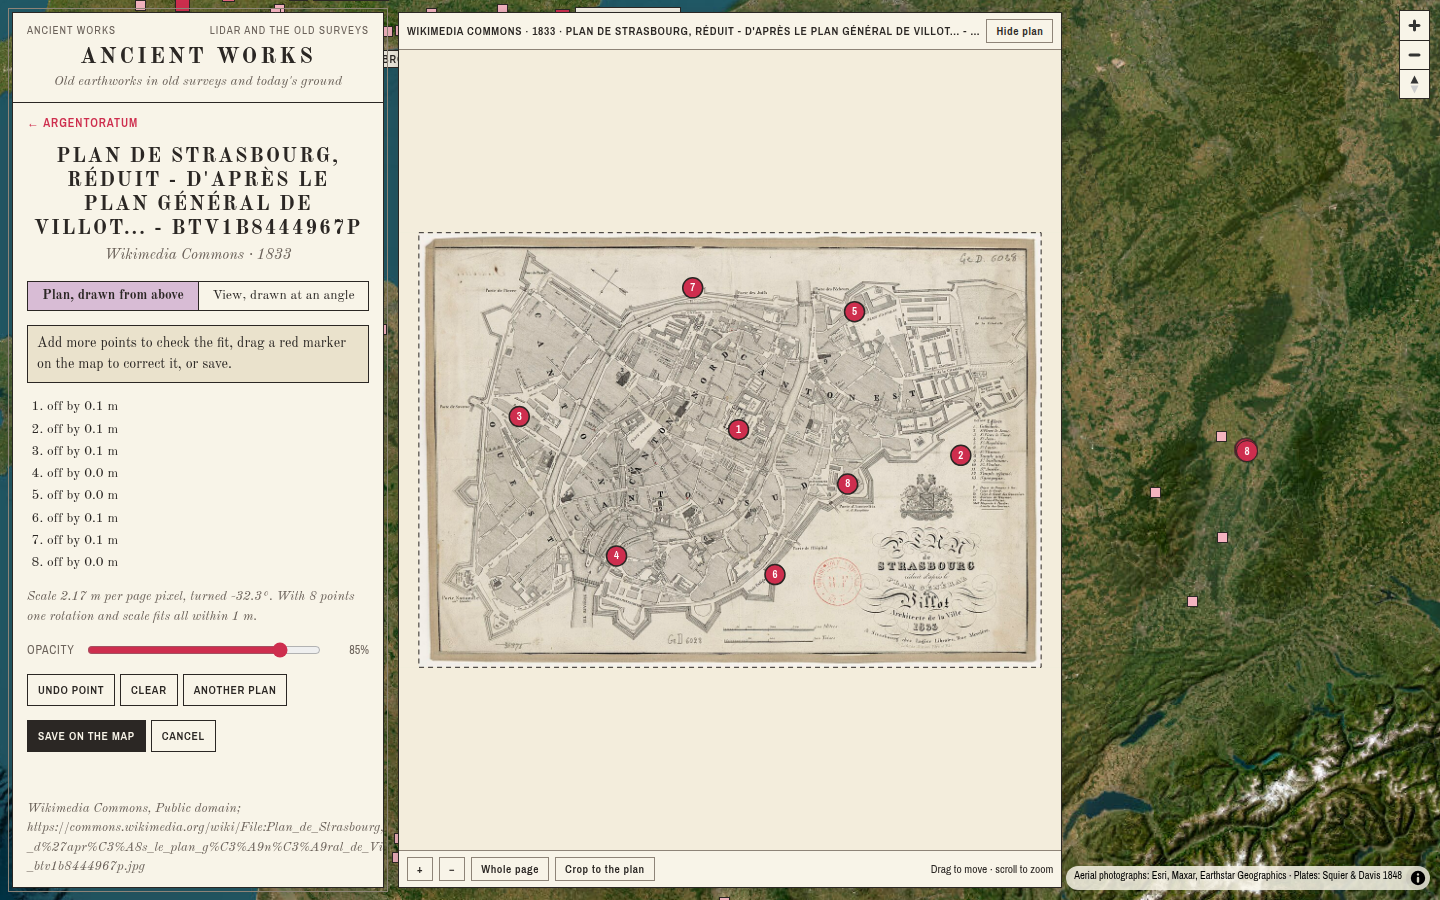
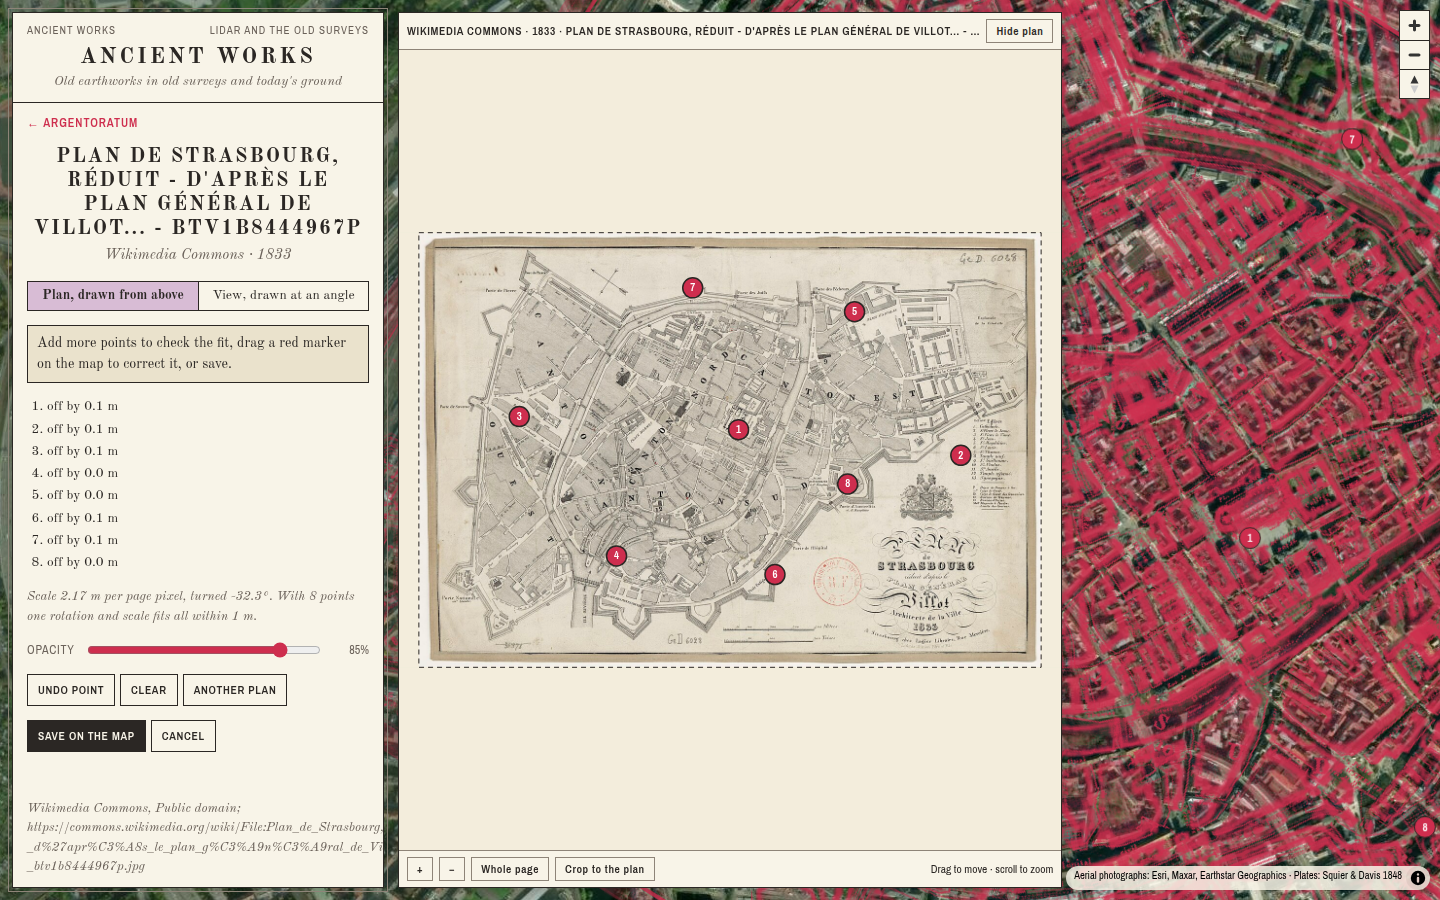
306b: one-doc re-check passed (S.ready + zoom races fixed, [eval] verified both grounds); full 42-shot audit run launched in the background

Changed region(s): [[0.0, 0.0, 1.0, 1.0]]

diff --git a/tasks/306b-agent-fits-in-review.md b/tasks/306b-agent-fits-in-review.md
@@ -57,19 +57,52 @@ the verdict must say which placement was looked at.
 - zwolle-q793.c_f9cddae6b944a648 - Zwolle, town plan by Jacob van Deventer (Netherlands)
 
 ## Hand-over
-(2026-10-12, iteration 139, agent c - FIRST session on 306b. Built the headless audit driver and
-validated it on one doc; full 42-shot run NOT started yet. Driver is uncommitted - the harness saved it.)
+(2026-10-12, iteration 140, agent c - second session. One-doc re-check PASSED with both fixes;
+full 42-shot run LAUNCHED in the background, in flight at session end.)
 
-**State.** `tools/audit_306b.mjs` (on my Touches line) is built and half-validated: for each of the 21
-docs it opens the site the review-tab way (select -> setGround -> startFit -> openPlan(
-rvResolveRow(site, docFields)) -> push the DOC's own 8 pairs + addPairMarker + refit) and takes a
-1440x900 shot over the aerial, plus over the LiDAR relief (all 10 sites have relief.jpg -> 42 shots
-total). One `server/serve.py --port 0` for the whole run, GET only; idempotent (skips existing pngs);
-accepts doc ids as args (`node tools/audit_306b.mjs <docId> [docId ...]`). The argentoratum c_191c
-couple was shot twice and is in docs/site_flow/agent_fits/ (uncommitted).
+**State.** `tools/audit_306b.mjs` (committed ceb6219, on my Touches line) is now FULLY VALIDATED on
+argentoratum c_191c6221a81caad0: both pngs re-shot with the fixes, [eval] confirmed on both grounds
+- imagery: `ground imagery, relLayer none, zoom 14.97`; relief: `relLayer visible, zoom 14.99`;
+`img:true, layer:true, n:8, fithint "Drag to move · scroll to zoom"`, fit resid 0.0-0.1 m, mpx 2.17,
+rot -32.3. Visual check of both shots: site-scale town (not the country-zoom 6.38 of the pre-fix run),
+1833 Villot plate fitted with the 8 numbered anchor dots, aerial shows dark satellite under the site's
+etatmajor red ink (85 %), relief shows grey hillshade + the Ill river + the same ink + the plate.
+The full run is in the background: `nohup node tools/audit_306b.mjs > /tmp/audit_306b.log 2>&1 &`
+(launched this session; server port 44225 at launch; 21 docs, 42 shots, 40 to write; ~22 s/shot est
+15-20 min; it SKIPs the 2 existing argentoratum pngs). /tmp persists across iterations (306a's
+127 KB /tmp/audit_306a.log from iteration 135 is still there).
 
-**Two page-behavior traps found and worked around IN THE DRIVER (the page files are agent a's 307
-territory - do not edit web/*.js here):**
+**NEXT STEPS, in order.**
+1. `tail -40 /tmp/audit_306b.log`: look for `[audit] FAILURES: ...` / `file=MISSING`. If the process is
+   still alive (ps -ef | grep audit_306b) let it finish or wait; if it died mid-run with some shots
+   missing, just re-run `node tools/audit_306b.mjs` (idempotent - it only writes what is missing).
+   Re-shoot a doc whose png looks wrong by id after `rm`-ing its two pngs.
+2. JUDGE the 42 shots in batches of ~7 (read the pngs) and APPEND 21 lines to the END of docs/site_flow.md
+   (the "## The agent fits, looked at (task 306)" section, line ~702, is the file's last section; 306a's
+   last line is bethlehem-q2523914.c_fc4566d6947287f4, ~line 798, "REMOVED (wrong place)" - append below
+   it; the section intro already promises b-f will append). Line format follows 306a's: `<doc id> -
+   <source>, <fit kind> (<score/points>, gate/resid): what the lines sit on. STAYS.` / `... LEAVES
+   (reason).` NOTE in each line where the review item's own version differs (the audit looks at the DOC's
+   pairs; the review tab today shows the item's candidates, which hold the machine's pairs and whose `why`
+   fields say why the machine rejected: read data/review/<site>.<plan>.json per doc - median residual
+   > 45 m or fabricated anchor patterns). castle-neroche n0110_1 is the one doc whose item pairs MATCH.
+3. Wrong fits (if any): the 303 way, exactly as 306a did: `review.upsert_item('.', sid, [entry])` with
+   entry = the FULL doc record + `why` = the audit reason (sits beside/replaces the item's own candidate
+   for the same plan); delete `data/db/platefits/<doc>.json`; `plan_fit.prune('.', sid)` (no overlay for
+   these 21, but it refreshes the site); then re-export the site's review page file SITE-SCOPED:
+   `review.export('.', sid)` (fit/review.py export with site_id - the tools/site_done.py semantics box 3
+   names; NEVER another site's item file). The site stays covered (an open item counts in the union
+   check). Do NOT run tools/site_done.py on a site whose matcher is reachable (206 trap: its fit phase
+   would place a NEW unaudited fit). Right fits stay in the store; their line says STAYS.
+4. Tick the boxes, then run the suite (`.venv/bin/python -m pytest tests/ -q --ignore=tests/test_gate.py`;
+   baseline at 306a's done commit 4ca9e2c: 128 passed, 1 skipped, test_gate pre-existing red per the
+   driver's loop-start notes). If a deletion breaks a test that pins one of the 21 docs (306a broke 5
+   this way: mackenzie doc_record, provenance source-line pins), re-point it at a surviving doc - search
+   tests/ for the doc id first.
+
+**Two page-behavior traps (WORKED AROUND IN THE DRIVER, both verified working - the page files are agent a's
+307 territory, do not edit web/*.js from this task; if a 307 merge changes the page API the driver is MY
+file and may be adapted to it):**
 1. `S.ready` race: `select()` -> `ensureSite()` bails when `!S.ready` (the page's start() sets it after
    loadPlans + catalog/scans/amazon fetches + map 'load'). If it bails, the per-site `rel-<site>`
    relief.jpg layer is never added and the relief shot shows the aerial instead (the live /tiles/relief
@@ -77,42 +110,12 @@ territory - do not edit web/*.js here):**
    the IIFE: wait for `S.ready` before select, then re-arm `ensureSite(s); applyAll()` after setGround.
 2. Zoom race: `openPlan()` ends with `map.easeTo({center, padding})` - no zoom - so it KEEPS the current
    zoom. If select()'s 4.5 s flyTo is still mid-flight when it fires, the camera settles at country
-   zoom (observed 6.38 in a debug run; the aerial then fills the frame and the anchors are a dot
-   cluster). Fix in the IIFE: before startFit, poll until `map.getZoom()` is within 0.1 of the target
+   zoom (observed 6.38 pre-fix; the aerial then fills the frame and the anchors are a dot cluster).
+   Fix in the IIFE: before startFit, poll until `map.getZoom()` is within 0.1 of the target
    (`15 - Math.max(0, Math.log2(span/1800))`, span = max(s.size_m) - select()'s own formula at 1440 px);
    after refit, if zoom is off by > 0.2, re-issue the site's easeTo WITH the explicit target zoom.
-
-**NEXT STEPS, in order.**
-1. Re-run the one-doc check with the fixes in: `rm docs/site_flow/agent_fits/argentoratum-q2361353_c_191c6221a81caad0*.png` then
-   `node tools/audit_306b.mjs argentoratum-q2361353.c_191c6221a81caad0`. Look at BOTH pngs: the aerial must
-   show the town with the fitted plate + anchor dots at a site-scale zoom; the relief must show grey
-   hillshade (plus the site's own etatmajor red drawing - that is the faithful visitor view: the dep
-   layer draws above the relief) with the fitted plate. Check the [eval] line: `zoom` ~ 13.8, `relLayer`
-   'visible' on relief / 'none' on imagery, `img:true`, `layer:true`, `fithint` NOT "Could not load the page scan."
-2. Launch the full run in the background: `nohup node tools/audit_306b.mjs > /tmp/audit_306b.log 2>&1 &`
-   (~42 shots, est. 15-20 min; it reuses the existing argentoratum pngs). It survives the session.
-3. Next session: `tail /tmp/audit_306b.log` for `[audit] FAILURES` / MISSING; re-run any failed docs by id.
-4. JUDGE the 42 shots in batches of ~7 and write the 21 lines into docs/site_flow.md under the existing
-   "## The agent fits, looked at (task 306)" section (line ~702) - APPEND below 306a's 23 lines (the
-   section intro already promises this; bethlehem's 12 lines are the last of 306a's). Line format follows
-   306a's: `<doc id> - <source>, <fit kind> (<score/points>, gate/resid): what the lines sit on. STAYS.`
-   or `... LEAVES (reason).` NOTE in each line where the review item's own version of the placement
-   differs (the item's candidates hold the machine's pairs; their `why` fields already say why the machine
-   rejected: median residual > 45 m, or fabricated anchor patterns - read data/review/<site>.<plan>.json).
-   The audit looks at the DOC's pairs (the document is the artifact); the viewer of the review tab today
-   sees the item's version.
-5. Wrong fits (if any): the 303 way, exactly as 306a did (its hand-over has the recipe): `review.upsert_item('.', sid, [entry])`
-   with entry = the FULL doc record + `why` = the audit reason (it sits beside/replaces the item's own
-   candidate for the same plan); delete `data/db/platefits/<doc>.json`; `plan_fit.prune('.', sid)` (drops any
-   overlay - there is none for these 21, but it refreshes the site); then re-export the site's review page
-   file SITE-SCOPED: `review.export('.', sid)` (fit/review.py export with site_id - the tools/site_done.py
-   semantics my box 3 names; NEVER export another site's item file). The site stays covered (an open item
-   counts in the union check). Do NOT run tools/site_done.py on a site whose matcher is reachable (206
-   trap: its fit phase would place a NEW unaudited fit). Right fits stay in the store; their line says STAYS.
-6. Run the suite (`.venv/bin/python -m pytest tests/ -q --ignore=tests/test_gate.py`; baseline 128 passed,
-   1 skipped, test_gate pre-existing red). If a deletion breaks a test that pins one of the 21 docs
-   (306a broke 5 this way: mackenzie doc_record, provenance source-line pins), re-point it at a surviving
-   doc like 306a did - search tests/ for the doc id first.
+   (Observed target ~14.97-14.99 for argentoratum, not the 13.8 the earlier estimate said - that is the
+   correct site-scale zoom for that site's size_m.)
 
 **Facts.**
 - The 19 Commons docs: plan id `c_<sha1[:16]>` but the raw file is `<sha1[:16]>.jpg` (NO c_ prefix); served
@@ -128,4 +131,4 @@ territory - do not edit web/*.js here):**
 - Per-site old-drawing layer (argentoratum: etatmajor ink, 85 %) draws ABOVE the relief and BELOW fit-prev -
   in relief shots you see relief + the site's own drawing + the audited plate. That is what a visitor sees.
 - 306a's 45 shots are in docs/site_flow/agent_fits/ (same naming: <site>_<plan>.png / _relief.png); 47 files
-  now incl. my 2.
+  incl. my argentoratum couple so far; +40 more after the run.

diff --git a/DECISIONS.md b/DECISIONS.md
@@ -323,3 +323,20 @@ Page-side design (307ba/307bb; full sketch in the 307b hand-over, the short vers
   1 skipped, test_gate pre-existing red. NEXT: one-doc re-check with the fixes, then the background full run,
   then judging (21 lines appended under the 306 section of docs/site_flow.md) and 303-way removals of any
   wrong fits (site-scoped `review.export('.', sid)`, never tools/site_done.py on a matcher-reachable site).
+
+## 2026-10-12 306b DECISION: one-doc re-check passed with both race fixes; full 42-shot run launched in the background (pid 3719656, log /tmp/audit_306b.log)
+- Second session on 306b. Re-shot the argentoratum c_191c6221a81caad0 couple with the fixed driver and
+  verified both page-behavior fixes actually work: imagery shot `relLayer: none`, relief shot
+  `relLayer: visible`, zoom 14.97/14.99 (site-scale, not the pre-fix country zoom 6.38), `img: true`,
+  `layer: true`, `n: 8`, fithint normal, fit resid 0.0-0.1 m / mpx 2.17 / rot -32.3. Visual check of both
+  pngs: town at site scale with the 1833 Villot plate fitted, anchor dots 1-8 on the plate and on the map,
+  etatmajor red ink (85 %) above the aerial (imagery) and above grey hillshade + the Ill river (relief) -
+  the faithful visitor view. The earlier hand-over's zoom estimate (~13.8) was off; the driver's own
+  target formula gives ~14.97 for argentoratum's size_m and that is the correct site-scale view.
+- The full run is now in the background (nohup, one `server/serve.py --port 0`, server on 44225 at launch;
+  21 docs, 42 shots, 40 to write, skips the 2 existing pngs; est. 15-20 min at ~22 s/shot). Next session:
+  tail /tmp/audit_306b.log for FAILURES/MISSING (or just re-run the driver - it is idempotent), then judge
+  the 42 shots and append the 21 lines to the end of docs/site_flow.md's task-306 section (which is the
+  file's last section; 306a's last line is bethlehem fc4566d6947287f4).
+- No test-affecting change this session (two pngs re-shot in docs/site_flow/agent_fits/), so the suite was
+  not re-run; it stays due at the judging/removals session.
